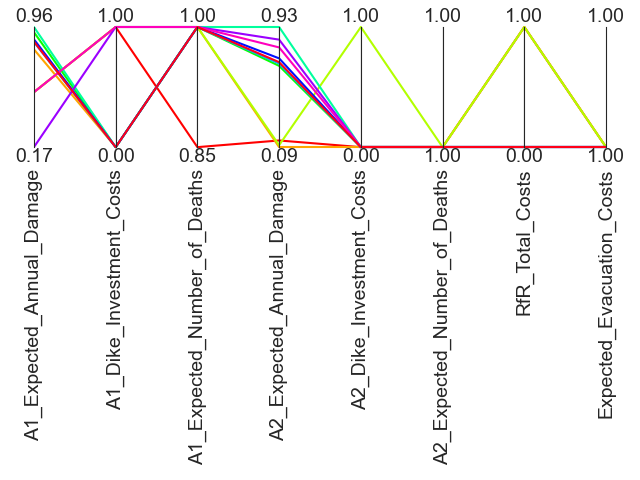
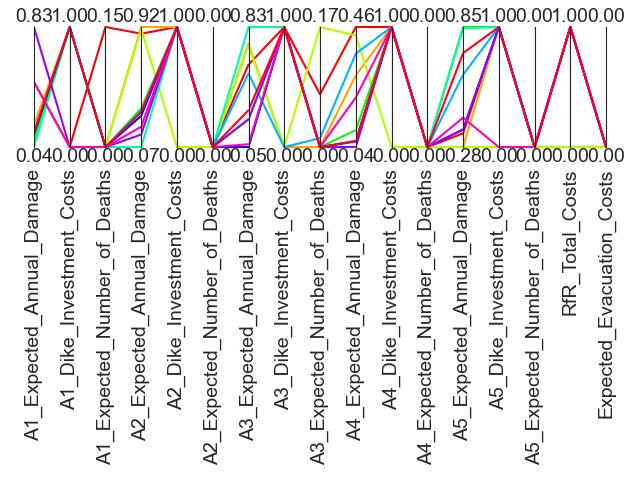
Update files

Changed region(s): [[0.0312, 0.0, 1.0, 0.9688], [0.875, 0.5938, 0.9062, 0.6562], [0.0938, 0.8125, 0.125, 0.875]]

diff --git a/final assignment/multi_MORDM_robustness.py b/final assignment/multi_MORDM_robustness.py
@@ -40,12 +40,12 @@ if __name__ == "__main__":
     thresholds = {'A1_Expected_Annual_Damage': 1000000, 'A1_Dike_Investment_Costs': 5000000,
                   'A1_Expected_Number_of_Deaths': 1, 'A2_Expected_Annual_Damage': 1000000,
                   'A2_Dike_Investment_Costs': 5000000, 'A2_Expected_Number_of_Deaths': 1,
-                  # 'A3_Expected_Annual_Damage': 1000000,
-                  # 'A3_Dike_Investment_Costs': 5000000, 'A3_Expected_Number_of_Deaths': 1,
-                  # 'A4_Expected_Annual_Damage': 1000000,
-                  # 'A4_Dike_Investment_Costs': 5000000, 'A4_Expected_Number_of_Deaths': 1,
-                  # 'A5_Expected_Annual_Damage': 1000000,
-                  # 'A5_Dike_Investment_Costs': 5000000, 'A5_Expected_Number_of_Deaths': 1,
+                   'A3_Expected_Annual_Damage': 1000000,
+                   'A3_Dike_Investment_Costs': 5000000, 'A3_Expected_Number_of_Deaths': 1,
+                   'A4_Expected_Annual_Damage': 1000000,
+                   'A4_Dike_Investment_Costs': 5000000, 'A4_Expected_Number_of_Deaths': 1,
+                   'A5_Expected_Annual_Damage': 1000000,
+                   'A5_Dike_Investment_Costs': 5000000, 'A5_Expected_Number_of_Deaths': 1,
                   'RfR_Total_Costs': 200000000, 'Expected_Evacuation_Costs': 1000000}
 
     # compare experiment results to thresholds
@@ -61,6 +61,15 @@ if __name__ == "__main__":
                 continue
             scores[k] = n / number_of_experiments
         overall_scores[policy] = scores
+
+    # Kijk naar het stukje code hierboven, vanaf lijn 50, waar we het domain criteria toepassen.
+    # Let heel goed op. Uitkomsten, plots kloppen wel. Ligt aan de scores, die zijn genormaliseerd (tussen 0 en 1).
+    # Je moet dan ook niet delen door 1000, maar door 10, als je maar 10 scenarios gebruikt.
+    ##We kunnen die >= vervangen door <= als dat duidelijker is! Bij Kwakkel ging het om maximizen,
+    # bij ons om minimizen.
+    # Die code, en dus plot, geeft aan in hoeveel procent van de gevallen je threshold is overschreden
+    # in dit geval door je policy over de verschillende scenarios. Wij kunnen daar ook percentage niet over
+    # schreden van maken.
 
     # store and show the scores
     overall_scores = pd.DataFrame(overall_scores).T
@@ -112,6 +121,12 @@ if __name__ == "__main__":
     max_regret = max_regret[['A1_Expected_Annual_Damage', 'A1_Dike_Investment_Costs',
                              'A1_Expected_Number_of_Deaths', 'A2_Expected_Annual_Damage',
                              'A2_Dike_Investment_Costs', 'A2_Expected_Number_of_Deaths',
+                             'A3_Expected_Annual_Damage', 'A3_Dike_Investment_Costs',
+                             'A3_Expected_Number_of_Deaths',
+                             'A4_Expected_Annual_Damage', 'A4_Dike_Investment_Costs',
+                             'A4_Expected_Number_of_Deaths',
+                             'A5_Expected_Annual_Damage', 'A5_Dike_Investment_Costs',
+                             'A5_Expected_Number_of_Deaths',
                              'RfR_Total_Costs', 'Expected_Evacuation_Costs']]
 
     limits = parcoords.get_limits(max_regret)

diff --git a/final assignment/multi_MORDM_convergence.py b/final assignment/multi_MORDM_convergence.py
@@ -222,13 +222,4 @@ if __name__ == "__main__":
 
 ### End notes ###
 
-    #Kolomnamen die uit reference set komen hebben weer spatie trouwens --> veroorzaakt geen problemen.
 
-    #Kijk naar het stukje code hierboven, vanaf lijn 225, waar we het domain criteria toepassen.
-    #Let heel goed op. Uitkomsten, plots kloppen wel. Ligt aan de scores, die zijn genormaliseerd (tussen 0 en 1).
-    #Je moet dan ook niet delen door 1000, maar door 10, als je maar 10 scenarios gebruikt.
-    ##We kunnen die >= vervangen door <= als dat duidelijker is! Bij Kwakkel ging het om maximizen,
-    #bij ons om minimizen.
-    # Die code, en dus plot, geeft aan in hoeveel procent van de gevallen je threshold is overschreden
-    # in dit geval door je policy over de verschillende scenarios. Wij kunnen daar ook percentage niet over
-    # schreden van maken.
